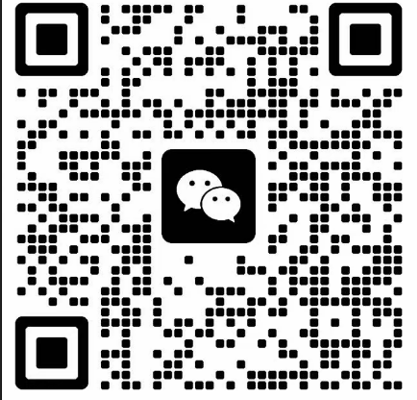
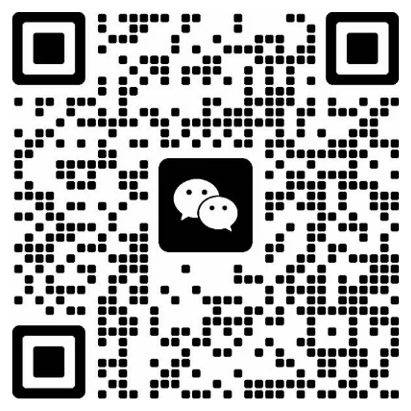
头像缩至160px、星星绕头像公转；二维码弹层图片固定正方形画布居中显示（object-fit: contain），两弹层互斥防遮挡；规范化两张二维码图居中；v=19

diff --git a/index.html b/index.html
@@ -22,7 +22,7 @@
 <link rel="preload" as="image" href="assets/avatar.webp" fetchpriority="high">
 <script>(function(){var t;try{t=localStorage.getItem("theme")}catch(e){}if(t!=="light"&&t!=="dark"){t=window.matchMedia&&matchMedia("(prefers-color-scheme: dark)").matches?"dark":"light"}document.documentElement.dataset.theme=t})();</script>
 <script>(function(){var l;try{l=localStorage.getItem("lang")}catch(e){}if(l!=="zh"&&l!=="en")l="en";document.documentElement.dataset.lang=l})();</script>
-<link rel="stylesheet" href="assets/style.css?v=17">
+<link rel="stylesheet" href="assets/style.css?v=19">
 </head>
 <body class="home">
 
@@ -51,9 +51,9 @@
             <source srcset="assets/avatar.webp" type="image/webp">
             <img src="assets/avatar.png" alt="Lucas 的头像：戴黑框眼镜、穿砖红色毛衣的插画肖像" width="800" height="800" decoding="async" fetchpriority="high">
           </picture>
-          <svg class="sparkle sparkle-1" viewBox="0 0 24 24" aria-hidden="true"><path d="M12 0C12.9 6.9 17.1 11.1 24 12 17.1 12.9 12.9 17.1 12 24 11.1 17.1 6.9 12.9 0 12 6.9 11.1 11.1 6.9 12 0Z"/></svg>
-          <svg class="sparkle sparkle-2" viewBox="0 0 24 24" aria-hidden="true"><path d="M12 0C12.9 6.9 17.1 11.1 24 12 17.1 12.9 12.9 17.1 12 24 11.1 17.1 6.9 12.9 0 12 6.9 11.1 11.1 6.9 12 0Z"/></svg>
-          <svg class="sparkle sparkle-3" viewBox="0 0 24 24" aria-hidden="true"><path d="M12 0C12.9 6.9 17.1 11.1 24 12 17.1 12.9 12.9 17.1 12 24 11.1 17.1 6.9 12.9 0 12 6.9 11.1 11.1 6.9 12 0Z"/></svg>
+          <span class="sparkle-orbit o1"><svg class="sparkle sparkle-1" viewBox="0 0 24 24" aria-hidden="true"><path d="M12 0C12.9 6.9 17.1 11.1 24 12 17.1 12.9 12.9 17.1 12 24 11.1 17.1 6.9 12.9 0 12 6.9 11.1 11.1 6.9 12 0Z"/></svg></span>
+          <span class="sparkle-orbit o2"><svg class="sparkle sparkle-2" viewBox="0 0 24 24" aria-hidden="true"><path d="M12 0C12.9 6.9 17.1 11.1 24 12 17.1 12.9 12.9 17.1 12 24 11.1 17.1 6.9 12.9 0 12 6.9 11.1 11.1 6.9 12 0Z"/></svg></span>
+          <span class="sparkle-orbit o3"><svg class="sparkle sparkle-3" viewBox="0 0 24 24" aria-hidden="true"><path d="M12 0C12.9 6.9 17.1 11.1 24 12 17.1 12.9 12.9 17.1 12 24 11.1 17.1 6.9 12.9 0 12 6.9 11.1 11.1 6.9 12 0Z"/></svg></span>
         </figure>
         <h1 class="lucas-wrap"><svg class="lucas-svg" viewBox="0 0 320 104" role="img" aria-label="Lucas"><defs><linearGradient id="lucasGrad" x1="0" y1="0" x2="1" y2="0"><stop class="gs0" offset="0"/><stop class="gs1" offset="0.55"/><stop class="gs2" offset="1"/><animateTransform attributeName="gradientTransform" type="translate" values="-0.35 0; 0.35 0; -0.35 0" dur="6s" repeatCount="indefinite"/></linearGradient></defs><text class="lucas-text" x="26" y="80"><tspan class="lg d1">L</tspan><tspan class="lg d2">u</tspan><tspan class="lg d3">c</tspan><tspan class="lg d4">a</tspan><tspan class="lg d5">s</tspan><tspan class="lucas-cursor">_</tspan></text></svg></h1>
         <p class="role"><span class="en">Independent Developer</span><span class="zh">独立开发者</span></p>
@@ -63,14 +63,14 @@
           <div class="qr-pop">
             <button class="soc" type="button" aria-label="微信，悬停显示二维码" title="微信 · 加个好友"><svg viewBox="0 0 24 24" fill="currentColor" aria-hidden="true"><path d="M9.3 4C5.3 4 2 6.6 2 9.9c0 1.9 1.1 3.5 2.8 4.6L4 17l2.8-1.4c.8.3 1.7.4 2.5.4h.4a5.4 5.4 0 0 1-.2-1.5c0-2.9 2.7-5.2 6-5.2h.5C14.9 6 12.4 4 9.3 4Zm-2 4.2a.9.9 0 1 1 0-1.8.9.9 0 0 1 0 1.8Zm4.6 0a.9.9 0 1 1 0-1.8.9.9 0 0 1 0 1.8Z"/><path d="M22 14.6c0-2.5-2.5-4.6-5.5-4.6S11 12.1 11 14.6s2.5 4.6 5.5 4.6c.8 0 1.5-.1 2.2-.4l2.3 1.2-.6-2c1-.8 1.6-2 1.6-3.4Zm-7.2-.9a.8.8 0 1 1 0-1.6.8.8 0 0 1 0 1.6Zm3.4 0a.8.8 0 1 1 0-1.6.8.8 0 0 1 0 1.6Z"/></svg></button>
             <figure class="pop">
-              <img src="assets/wechat-qr.png" alt="微信加好友二维码" width="399" height="399" loading="lazy" decoding="async">
+              <img src="assets/wechat-qr.png?v=2" alt="微信加好友二维码" width="411" height="411" loading="lazy" decoding="async">
               <figcaption><span class="en">WeChat · add me</span><span class="zh">微信 · 加个好友</span></figcaption>
             </figure>
           </div>
           <div class="qr-pop">
             <button class="soc" type="button" aria-label="赞赏，悬停显示收款码" title="赞赏 · 请我喝咖啡"><svg viewBox="0 0 24 24" fill="none" stroke="currentColor" stroke-width="1.8" stroke-linecap="round" stroke-linejoin="round" aria-hidden="true"><path d="M17 9h1.5a2.5 2.5 0 0 1 0 5H17"/><path d="M4 9h13v6a4 4 0 0 1-4 4H8a4 4 0 0 1-4-4V9Z"/><path d="M8 3.5v2M11.5 3.5v2M15 3.5v2"/></svg></button>
             <figure class="pop">
-              <img src="assets/reward-qr.png" alt="微信赞赏收款码" width="241" height="246" loading="lazy" decoding="async">
+              <img src="assets/reward-qr.png?v=2" alt="微信赞赏收款码" width="259" height="259" loading="lazy" decoding="async">
               <figcaption><span class="en">Buy me a coffee</span><span class="zh">赞赏 · 请我喝咖啡</span></figcaption>
             </figure>
           </div>

diff --git a/assets/style.css b/assets/style.css
@@ -209,7 +209,7 @@ body.home section { margin-top: 0; }
 
 /* 左列：头像 + 基本介绍 */
 .me { display: flex; flex-direction: column; align-items: center; text-align: center; }
-.me .portrait { width: 176px; margin: 0 0 20px; }
+.me .portrait { width: 160px; margin: 0 0 20px; }
 /* SVG 动态艺术字：渐变流动 + 逐字入场 + 金色光标 */
 .lucas-svg { display: block; width: 216px; max-width: 72vw; height: auto; overflow: visible; }
 .lucas-text {
@@ -333,9 +333,12 @@ body.home section { margin-top: 0; }
 .pop img {
   display: block;
   width: 150px;
-  height: auto;              /* 保持原始比例，可扫 */
+  height: 150px;            /* 固定正方形画布：图片再怎么换，二维码都完整居中 */
+  object-fit: contain;
+  margin: 0 auto;
   border-radius: 10px;
   border: 1px solid var(--line);
+  background: #fff;         /* 二维码白底，透明图也不露底 */
 }
 .pop figcaption { margin-top: 6px; font-size: 12px; color: var(--ink-2); text-align: center; letter-spacing: .02em; }
 .qr-pop:hover .pop,
@@ -343,6 +346,12 @@ body.home section { margin-top: 0; }
   opacity: 1;
   pointer-events: auto;
   transform: translateX(-50%) translateY(0) scale(1);
+}
+/* 同排两个二维码弹层互斥：悬停/聚焦其一的时候隐藏另一个，避免相互遮挡 */
+.social:has(.qr-pop:hover, .qr-pop:focus-within) .qr-pop:not(:hover, :focus-within) .pop {
+  opacity: 0;
+  pointer-events: none;
+  transform: translateX(-50%) translateY(6px) scale(.96);
 }
 
 /* 右列：想法 / 在搞的项目 / 个人想法 */
@@ -421,10 +430,20 @@ body.home section { margin-top: 0; }
   border-radius: 50%;
   pointer-events: none;
 }
+/* 星星绕头像公转：轨道层匀速旋转，星星本体保留闪烁 */
+.sparkle-orbit { position: absolute; left: 50%; top: 50%; width: 0; height: 0; animation: orbit var(--t, 18s) linear infinite; }
+.sparkle-orbit .sparkle { position: absolute; }
+.o1 { --t: 18s; animation-delay: -1.3s; }
+.o2 { --t: 26s; animation-delay: -14.1s; }
+.o3 { --t: 22s; animation-delay: -18.9s; }
 .sparkle { position: absolute; fill: var(--gold); z-index: 2; animation: twinkle 3.4s ease-in-out infinite; }
-.sparkle-1 { width: 26px; right: -18px; bottom: 30px; animation-delay: .2s; }
-.sparkle-2 { width: 15px; left: -14px; bottom: 110px; opacity: .85; animation-delay: 1.5s; }
-.sparkle-3 { width: 17px; right: 22px; top: 26px; opacity: .9; animation-delay: 2.6s; }
+.sparkle-1 { width: 26px; left: 93px; top: -13px; animation-delay: .2s; }
+.sparkle-2 { width: 15px; left: 110px; top: -8px; opacity: .85; animation-delay: 1.5s; }
+.sparkle-3 { width: 17px; left: 89px; top: -9px; opacity: .9; animation-delay: 2.6s; }
+@keyframes orbit {
+  from { transform: rotate(0deg); }
+  to   { transform: rotate(360deg); }
+}
 @keyframes twinkle {
   0%, 100% { transform: scale(1) rotate(0deg); opacity: 1; }
   50%      { transform: scale(.78) rotate(18deg); opacity: .35; }
@@ -693,6 +712,10 @@ footer .top-btn svg { width: 13px; height: 13px; }
 @media (prefers-reduced-motion: reduce) {
   .reveal { animation: none; opacity: 1; transform: none; }
   .sparkle, .status-dot { animation: none; }
+  .sparkle-orbit { animation: none; }
+  .o1 { transform: rotate(26deg); }
+  .o2 { transform: rotate(195deg); }
+  .o3 { transform: rotate(310deg); }
   .lucas-svg tspan { animation: none; opacity: 1; }
   .card, .hero-links a, footer a, .nav-links a { transition: none; }
   body { transition: none; }
@@ -705,7 +728,7 @@ footer .top-btn svg { width: 13px; height: 13px; }
   footer { padding: 9px 20px; }
   body.home main { padding: 12px 0; }
   .hero-card { grid-template-columns: 1fr; gap: 26px; padding: 28px 22px 24px; border-radius: 22px; }
-  .me .portrait { width: min(180px, 52vw); }
+  .me .portrait { width: min(160px, 52vw); }
   .pop img { width: 132px; }
   section { margin-top: 64px; }
   .page-head { padding: 40px 0 8px; }

diff --git a/projects.html b/projects.html
@@ -21,7 +21,7 @@
 <link rel="stylesheet" href="https://cdn.jsdelivr.net/npm/lxgw-wenkai-screen-webfont@1.7.0/style.css">
 <script>(function(){var t;try{t=localStorage.getItem("theme")}catch(e){}if(t!=="light"&&t!=="dark"){t=window.matchMedia&&matchMedia("(prefers-color-scheme: dark)").matches?"dark":"light"}document.documentElement.dataset.theme=t})();</script>
 <script>(function(){var l;try{l=localStorage.getItem("lang")}catch(e){}if(l!=="zh"&&l!=="en")l="en";document.documentElement.dataset.lang=l})();</script>
-<link rel="stylesheet" href="assets/style.css?v=17">
+<link rel="stylesheet" href="assets/style.css?v=19">
 </head>
 <body>
 
